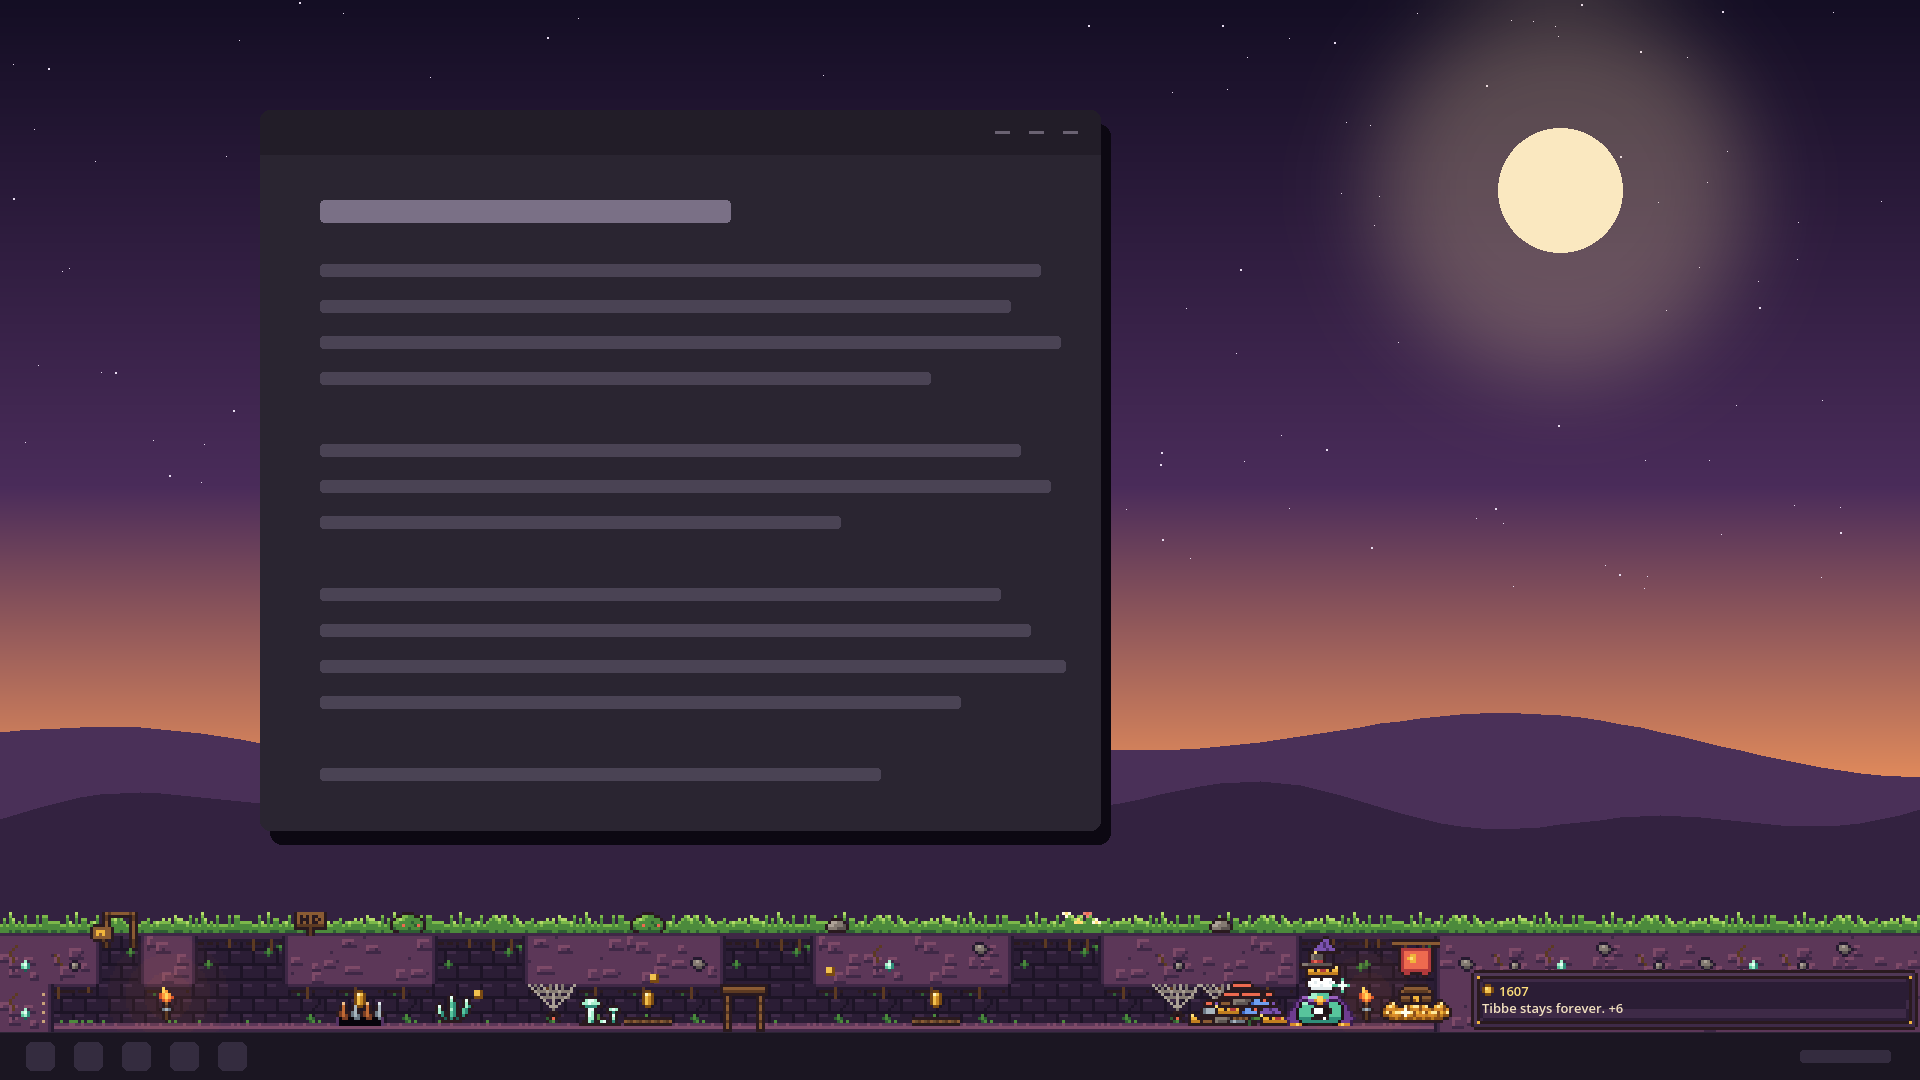
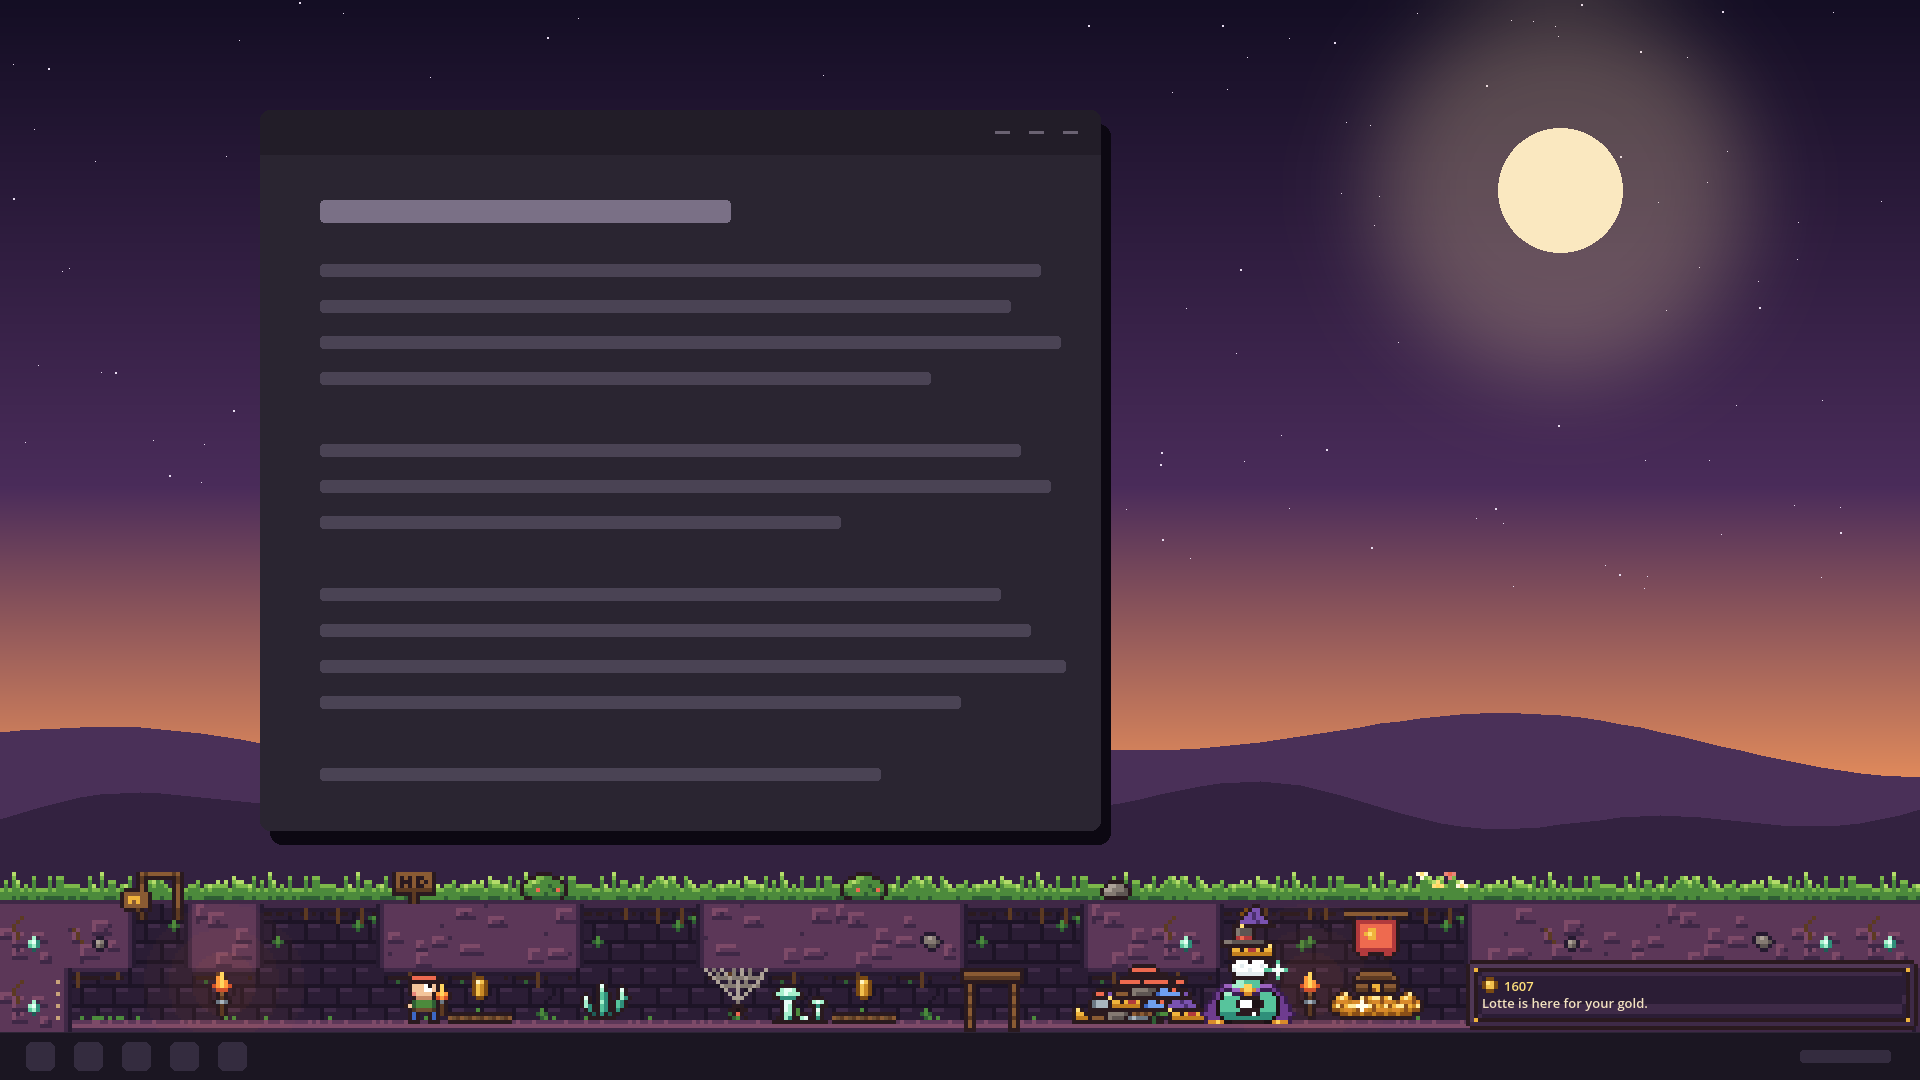
Mila: scherm 1 en 2 op hoogte 160 (schaal 4), vergelijking bijgewerkt
Claude-Session: https://claude.ai/code/session_01RMWUygNckAuAuJEhi84k7i

Changed region(s): [[0.0, 0.7944, 1.0, 0.9778]]

diff --git a/ontwerp/steam/winkelpagina/bron/maak_schermen2.py b/ontwerp/steam/winkelpagina/bron/maak_schermen2.py
@@ -85,11 +85,12 @@ def bureau(k, opname):
     venster(d, k)
     taakbalk(d, k)
     s = Image.open(opname).convert("RGBA")
-    if s.size != (W, STROOK_H):
-        raise SystemExit(f"opname is {s.size}, verwacht {(W, STROOK_H)}")
-    s = s.resize((W * k, STROOK_H * k), Image.NEAREST)
+    sh = s.size[1]                     # 120 standaard, 96 tot 160 instelbaar
+    if s.size[0] != W:
+        raise SystemExit(f"opname is {s.size}, verwacht {W} breed")
+    s = s.resize((W * k, sh * k), Image.NEAREST)
     im = im.convert("RGBA")
-    im.alpha_composite(s, (0, (H - BALK_H - STROOK_H) * k))
+    im.alpha_composite(s, (0, (H - BALK_H - sh) * k))
     return im.convert("RGB")
 
 if __name__ == "__main__":
@@ -100,6 +101,6 @@ if __name__ == "__main__":
         groot = bureau(k, opname)
         cw, ch = W, H                      # uitsnede in pixels van het k-keer bureaublad
         x0 = max(0, min(W * k - cw, xm * k - cw // 2))
-        x0 -= x0 % (3 * k)                 # op de spelpixelrand
+        x0 -= x0 % k                       # hele scherm-pixels
         onder = (H - BALK_H + 12) * k        # alleen een randje taakbalk, zodat de strook groter in beeld komt
         groot.crop((x0, onder - ch, x0 + cw, onder)).save(uit)

diff --git a/ontwerp/steam/winkelpagina/plan.md b/ontwerp/steam/winkelpagina/plan.md
@@ -126,3 +126,4 @@ Alles nagemeten in de png's (GEZIEN).
   5. `scherm-5-hap` (3x, demo 55 s): Gloop met kroon en emmer, munten vliegen, "Gloop ate Mara. Kept the bucket. +6".
 - **Naast Rusty's** (`vergelijk-schermen-v2.png`): het verschil met v1 is groot, je ziet nu wat je koopt en elk scherm vertelt iets anders. **Eerlijk, waar Rusty's nog wint:** (a) hun close-up vult het hele beeld met spel, bij ons is in de vergrotingen de bovenste helft decor (een strook van 16:1 vult nooit 16:9); (b) op hun bureaublad is de strook groter (zij tonen hem hoger dan wij); (c) hun blauwe lucht knalt meer dan onze avond. Volgende stap: scherm 1 opnieuw op hoogte 160 (ons maximum, eerlijk instelbaar) en een week-film met meer helden tegelijk (nu kwamen er in 90 s maar 2).
 - Kan-punt 6 van Daan (all ages) staat genoteerd voor het uploaden: alle vijf zijn slapstick zonder bloed.
+- **Later in run 10:** scherm 1 en 2 opnieuw uit een week-film op **hoogte 160** (run 42765247763, map `winkel-1920-week-160`). Besluit: 160 voor deze twee. Waarom: op 160 tekent het spel op schaal 4 in plaats van 3, dus op het bureaublad is de strook rijker en in de vergroting vult Royal Gloop met zijn toren de onderste helft (GEZIEN). Eerlijk, want 160 is een gewone instelling in het spel (96 tot 160). Scherm 3 tot 5 blijven op 120 (demo-momenten). Punt (b) bij Rusty's is daarmee kleiner; (a) en (c) blijven.

diff --git a/ontwerp/logboek-mila.md b/ontwerp/logboek-mila.md
@@ -94,4 +94,5 @@
 - **Schermafbeeldingen v2** (vijf, uitleg `plan.md` versie 8). Afgewezen: wit venster op het bureaublad (trok het oog weg), hele taakbalk in de vergroting (lege band onderaan), het eerste wrok-beeld met de juiste regel maar de held ver van de put.
 - **Muzieknootje:** geen eigen tekening. Waarom: Brams nootje van 5 x 5 met donkere rand leest al (Sanne toets 10 punt 1 opgelost); een tekening zou alleen iets anders zijn, niet beter.
 - **Garmin Ebb: schets van vijf schermen** op 260 en 454 px, alleen MIP-kleuren (`ontwerp/garmin/schets/`, maten in `tij-stijl.md` onderaan), regel in Gijs' taken. Waarom nu: Hans zei ja en Gijs bouwt al; zonder schets bouwt hij een eigen uiterlijk.
-- Volgende run: scherm 1 op hoogte 160 en een week-film met meer helden; keuring 7 verwerken; trailer-opmaak met de 1920-beelden (Daan: openen of eindigen met het bureaublad).
+- Later in run 10: scherm 1 en 2 opnieuw op hoogte 160 (schaal 4, rijker, GEZIEN).
+- Volgende run: een week-film met meer helden tegelijk; keuring 7 verwerken; trailer-opmaak met de 1920-beelden (Daan: openen of eindigen met het bureaublad).
